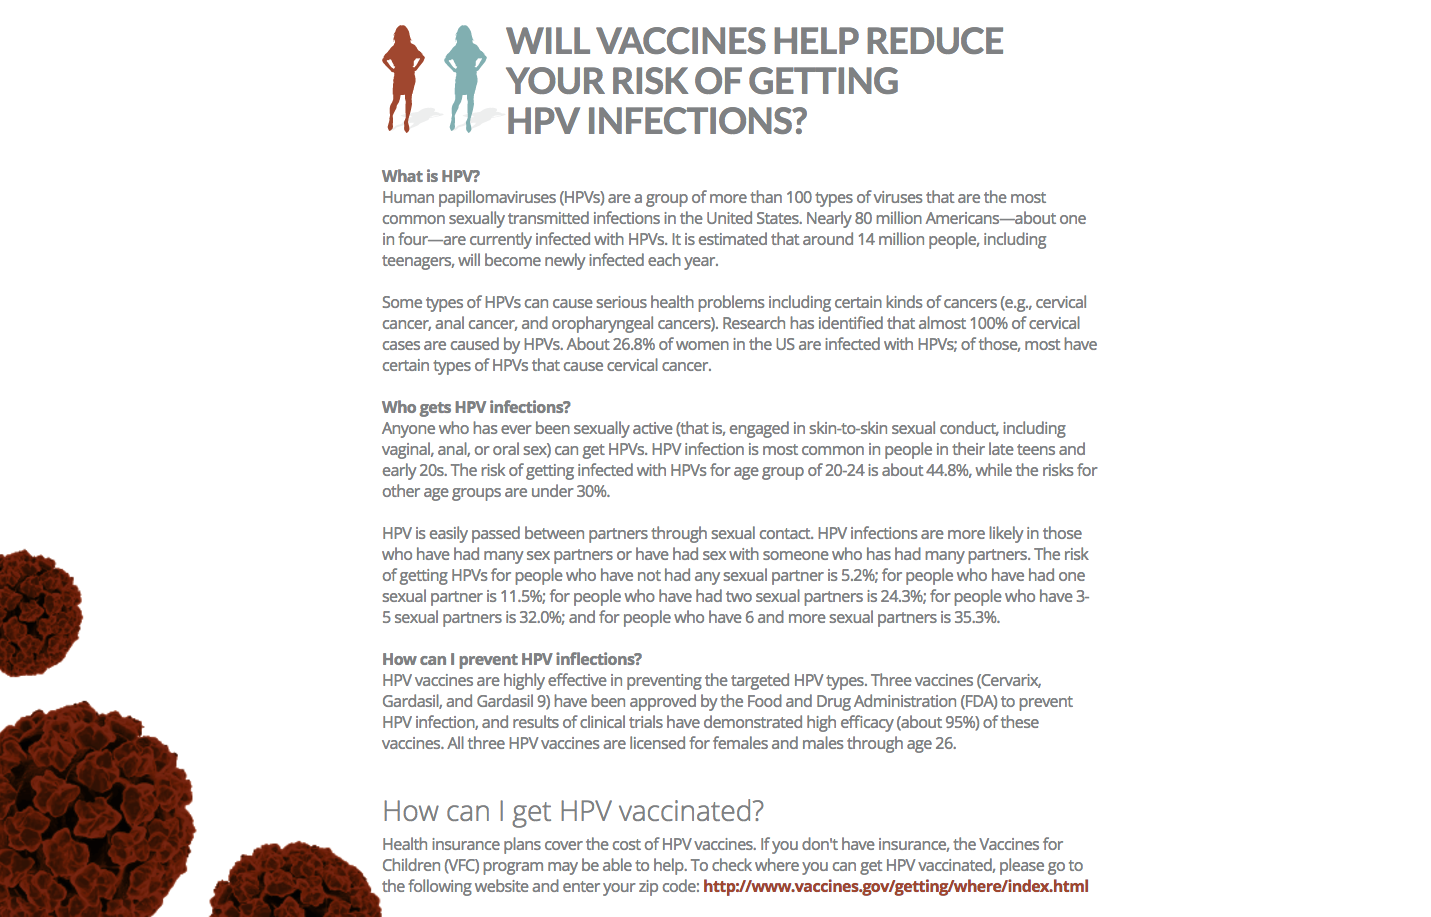
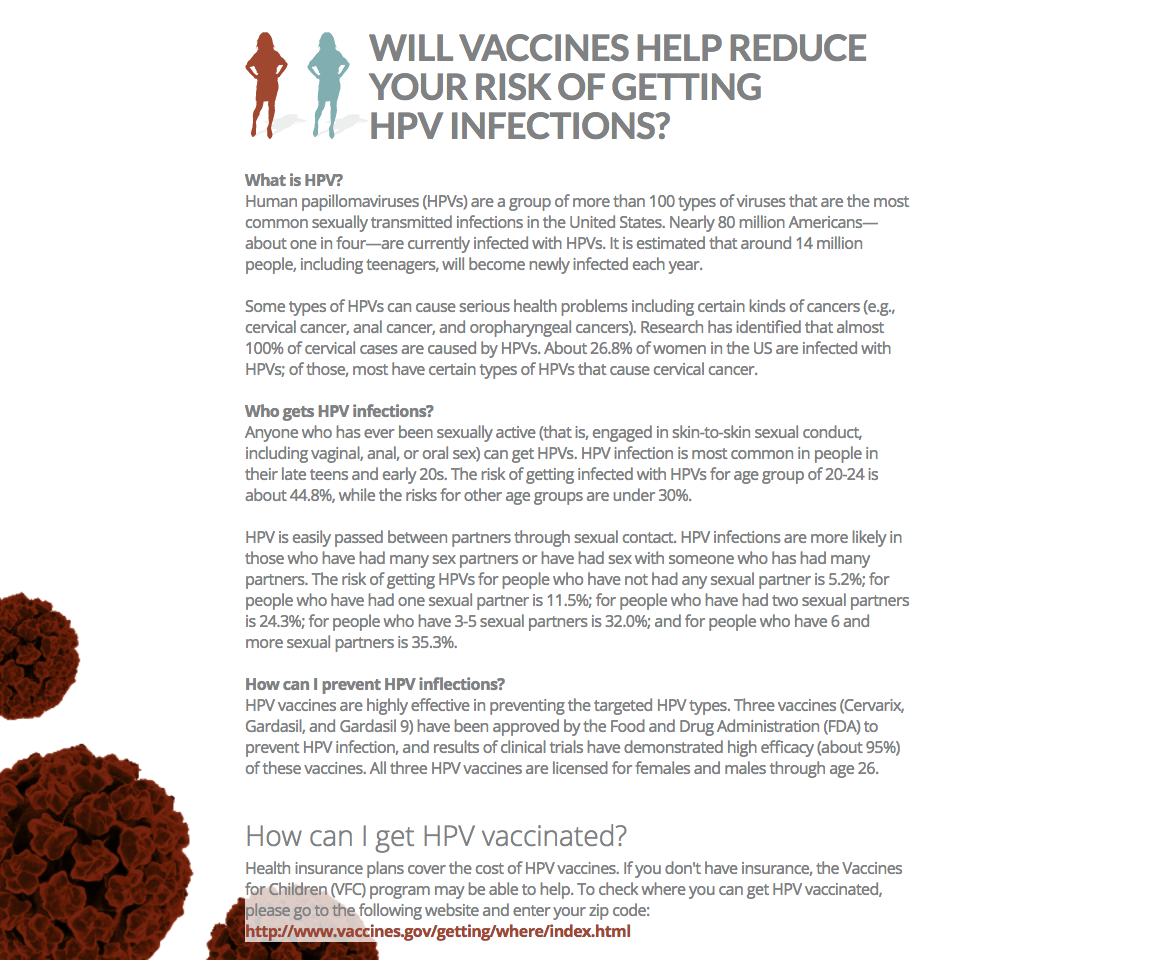
Add files via upload

Changed region(s): [[0.2156, 0.1832, 0.7699, 0.8244], [0.0, 0.5802, 0.7699, 1.0], [0.2156, 0.0305, 0.7391, 0.1527]]

diff --git a/css/main.css b/css/main.css
@@ -91,7 +91,7 @@ tr, td {
 html,
 body {
 	
-    background-image: url("https://cibonaydames.github.io/hpv/img/bg3.png");
+    
     background-position: left bottom; /*Positioning*/
     background-color: rgba(255,255,255, 0.8);
     background-repeat: no-repeat;
@@ -1005,7 +1005,7 @@ input.text:focus {
 /* home hero specific pages */
 
 .hero-home {
-	background-image: url("https://cibonaydames.github.io/hpv/img/bg3.png");
+	
     background-position: left bottom; /*Positioning*/
     background-repeat: no-repeat;
 	background-color: rgba(255,255,255, 0.8);
@@ -1025,7 +1025,7 @@ input.text:focus {
 
 @media ( min-width: 1200px ) {
 	.hero-home {
-		background-image: url("https://cibonaydames.github.io/hpv/img/bg3.png");
+		
     background-position: left bottom; /*Positioning*/
     background-repeat: no-repeat;
 	background-color: rgba(255,255,255, 0.8);
@@ -1080,7 +1080,7 @@ input.text:focus {
 .iphone-mobile {
 	height: 200px; 
 	width: 100%;
-	background-image: url("https://cibonaydames.github.io/hpv/img/bg3.png");
+	
     background-position: left bottom; /*Positioning*/
     background-repeat: no-repeat;
 	background-color: #ffffff;
